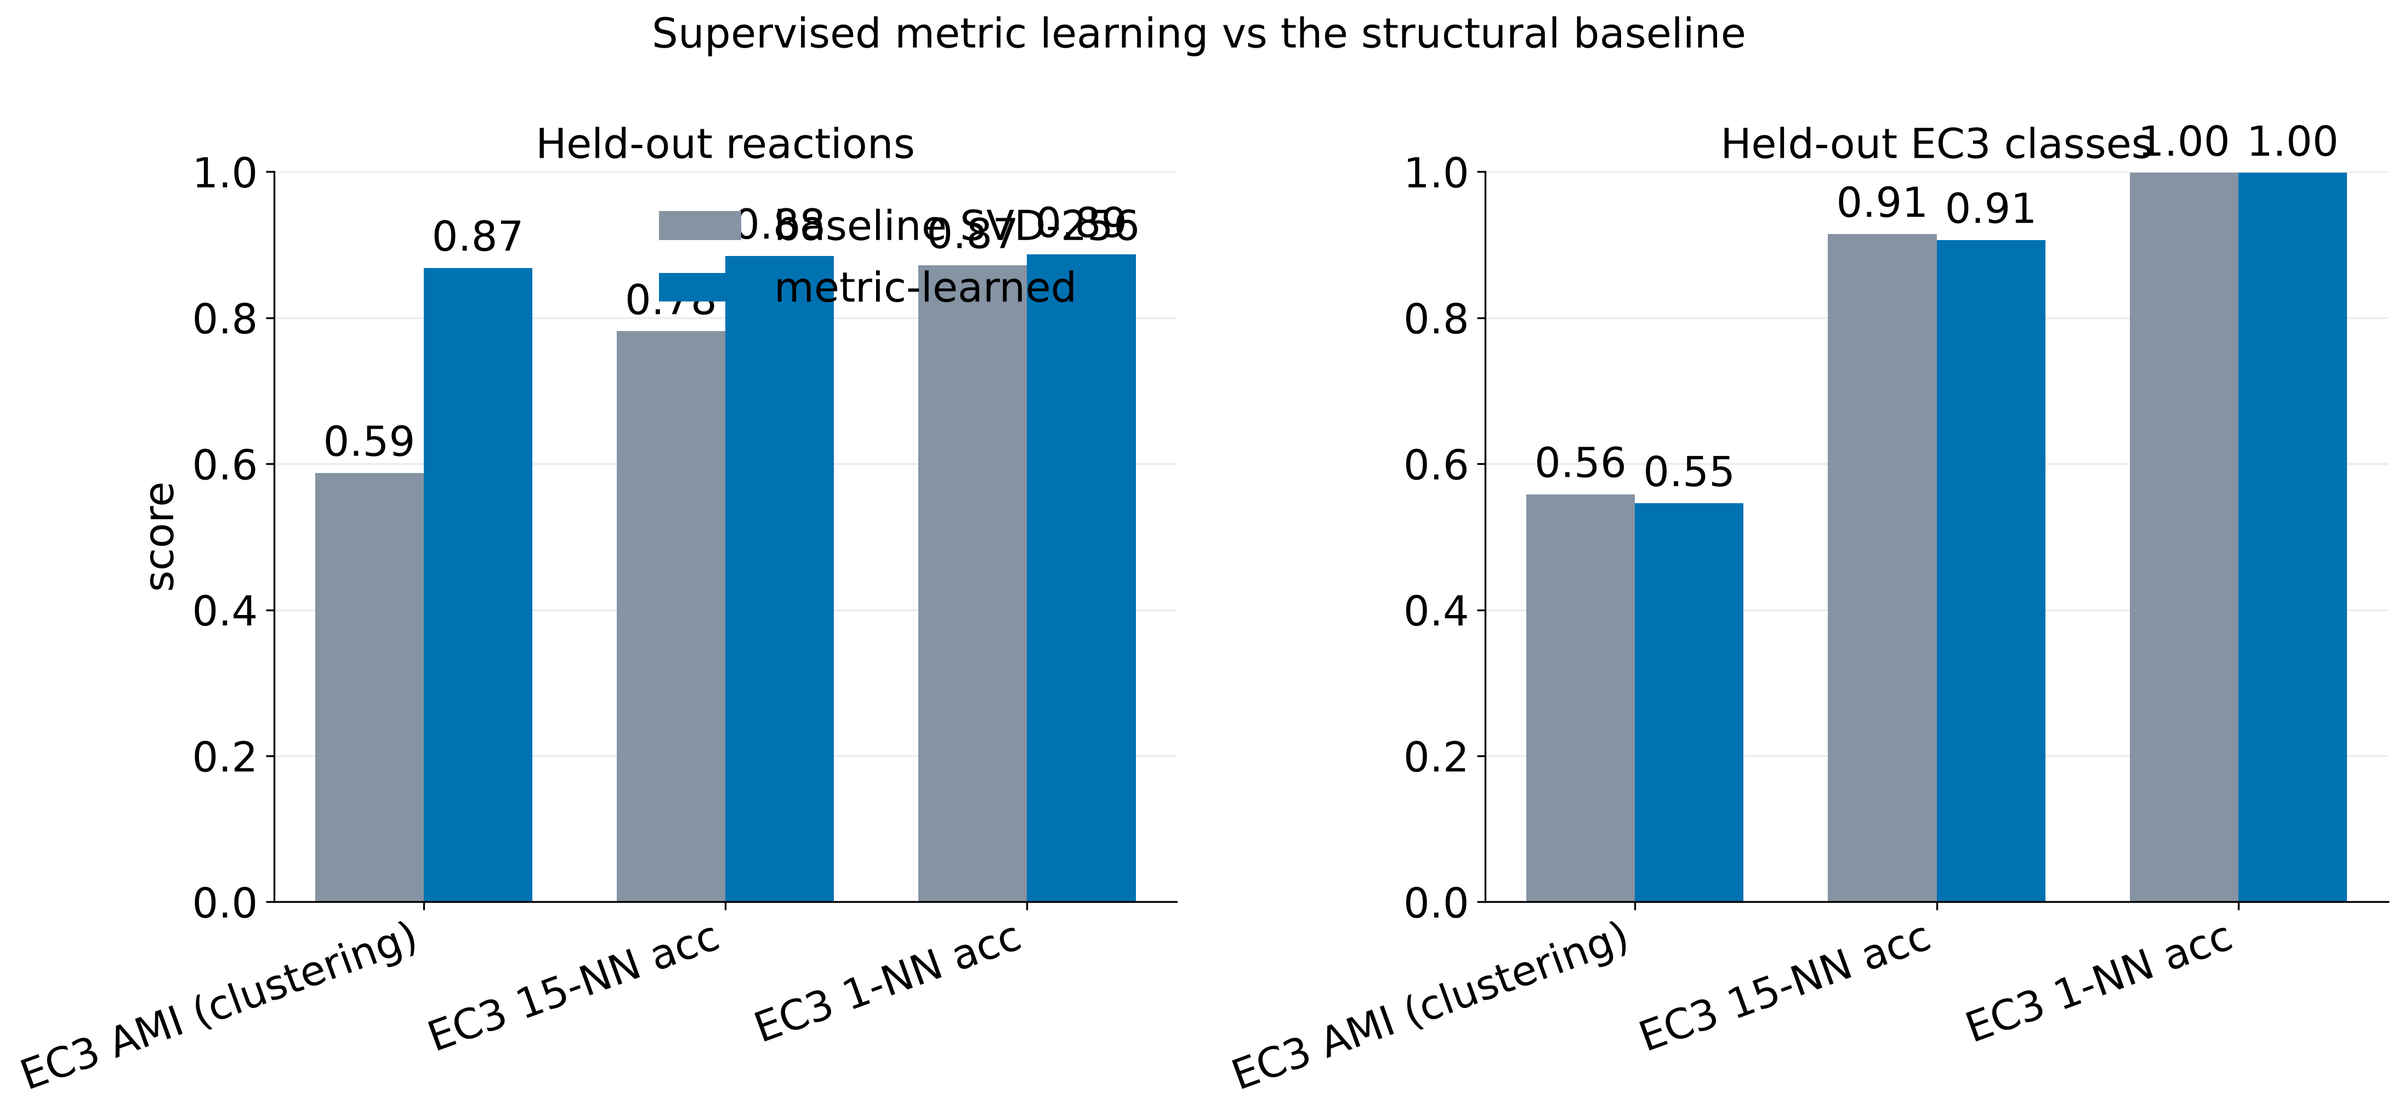
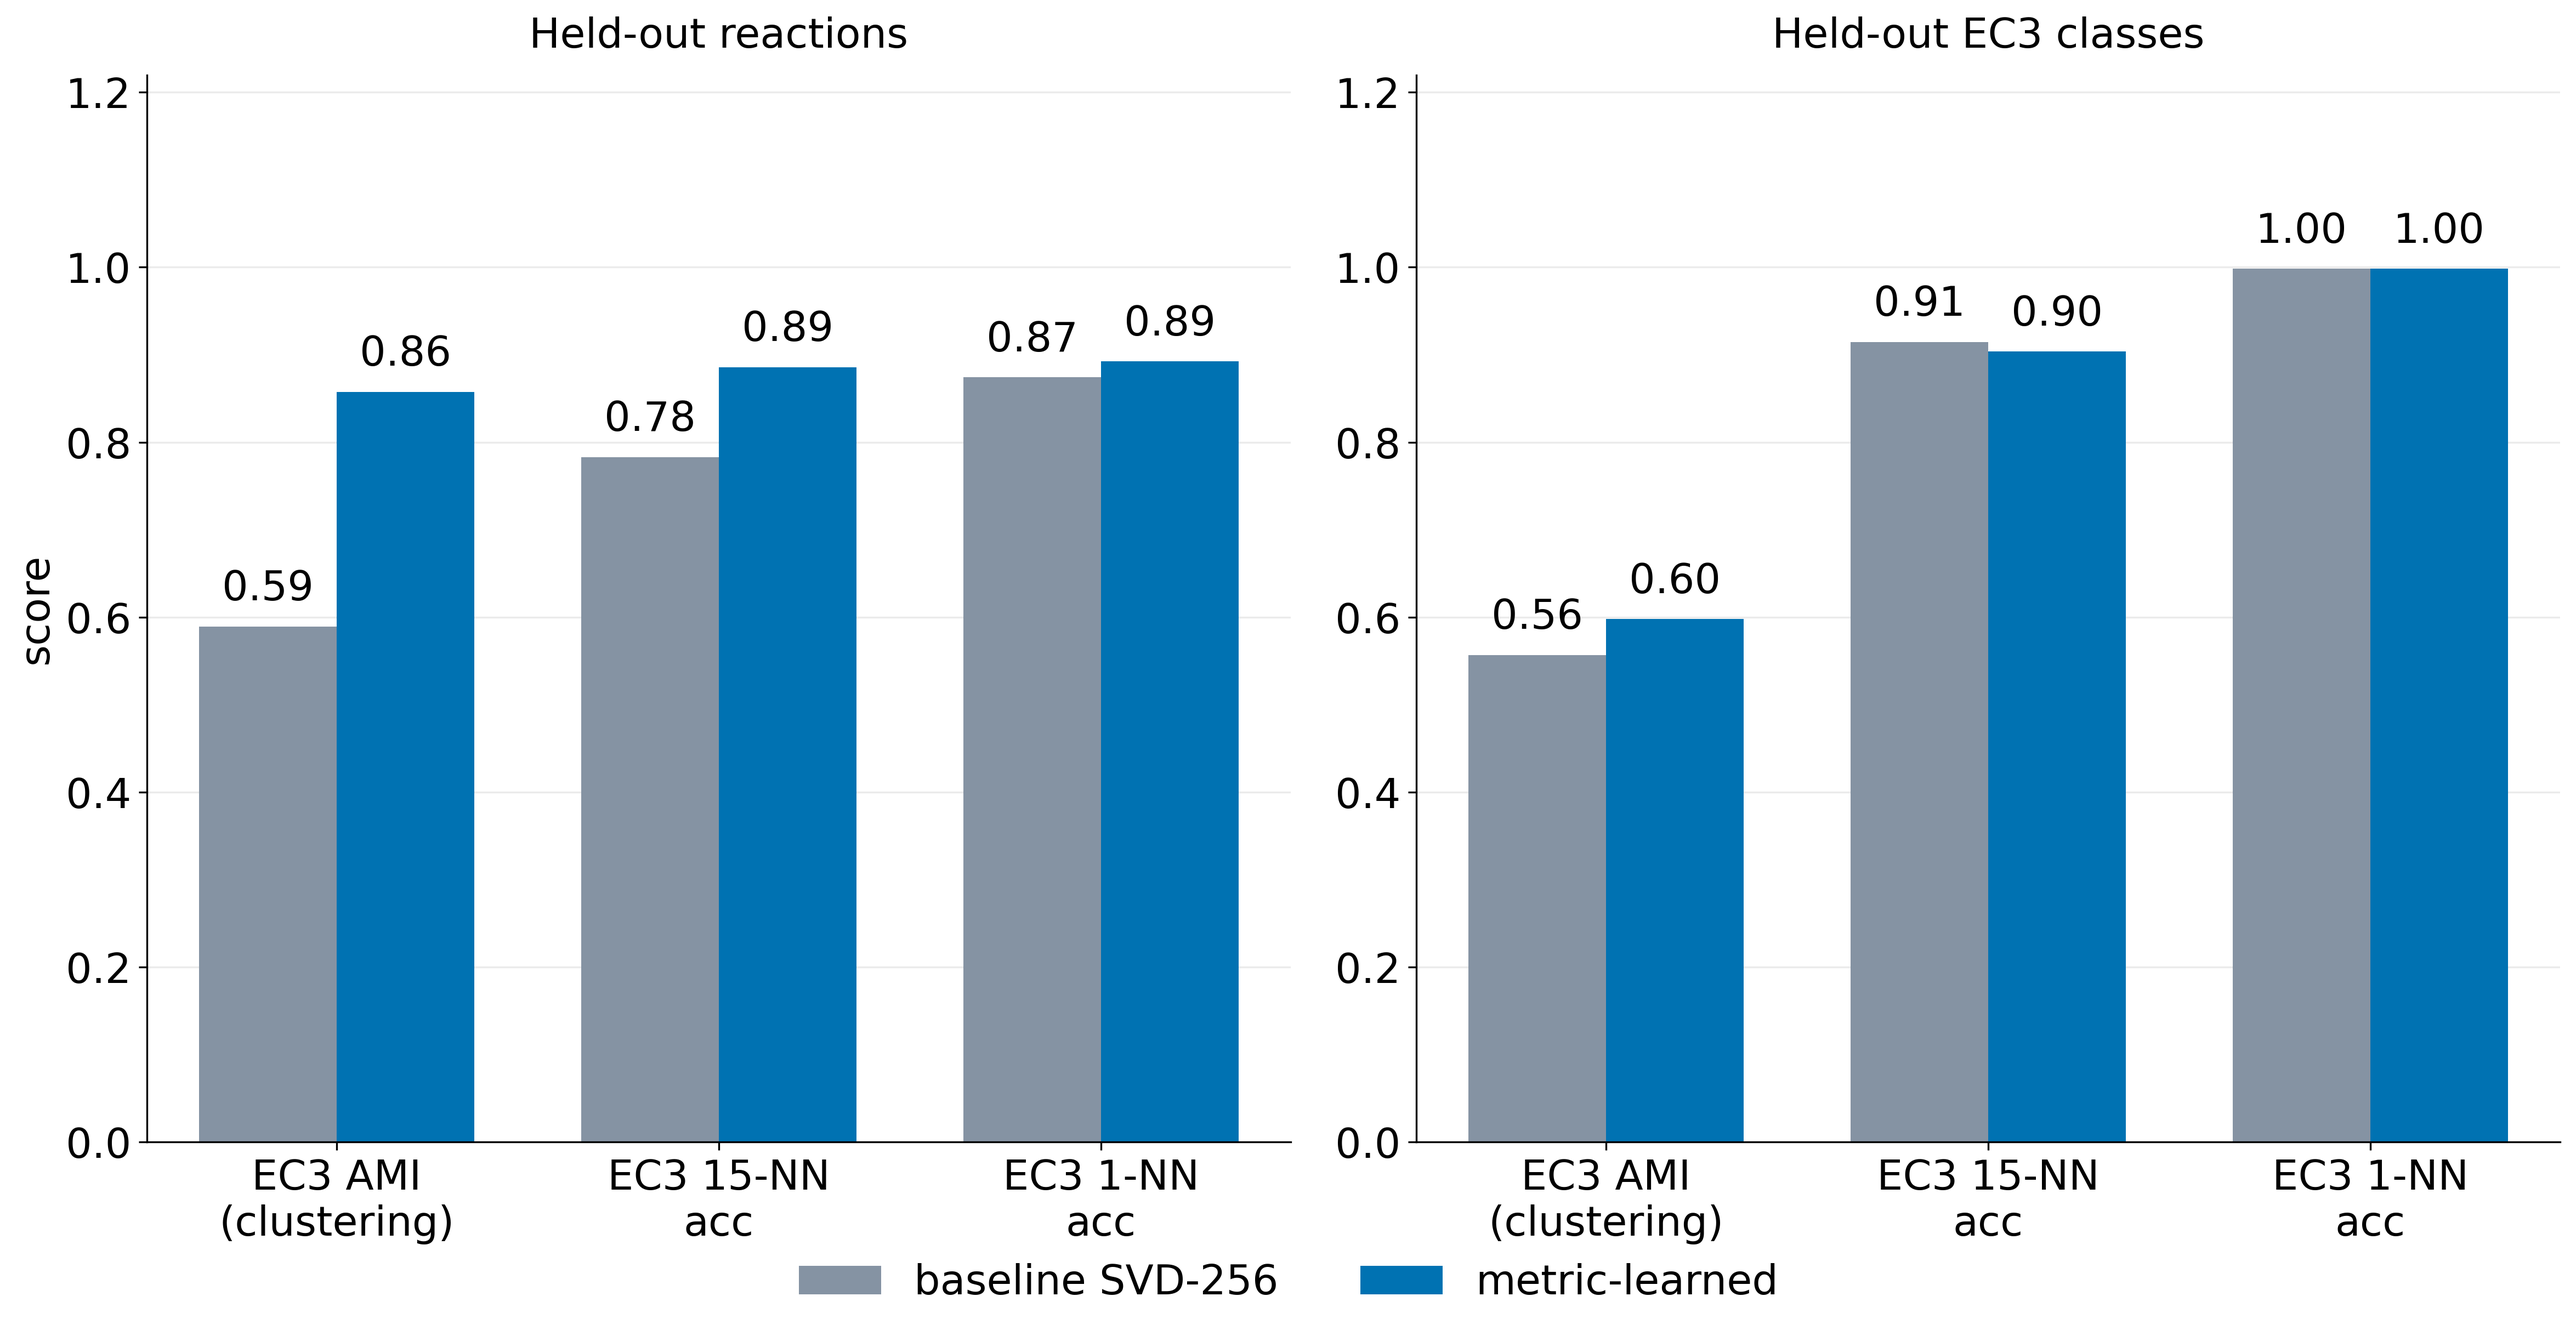
Fix text overlap in prediction figures; move landscape plot to viz script
- fig_metric_learning: value labels collided with the legend and panel titles.
  Add y-headroom, 2-line horizontal tick labels, shared legend below the panels,
  drop the redundant suptitle.
- fig_missing_landscape: the EC1 enzyme-class names overlapped in the bar panel.
  Switch to a horizontal bar chart (full names on the y-axis, no overlap).
- Move fig_missing_landscape generation out of annotate_missing.py (which needed a
  12-min DRFP rerun) into viz_predictions.py, so all three prediction figures are
  drawn from the saved TSV/landscape CSV in seconds. annotate_missing.py is now
  compute-only.

Regenerating metric_learning.py retrained the projection: the held-out-reactions
win is stable (~0.86 vs 0.59), while the held-out-classes delta is within run-to-run
noise (0.55<->0.60) -- reinforcing that the metric gives no reliable transfer to
unseen EC classes.

All 17 figures were visually audited for overlap; the rest were already clean.

diff --git a/rxnfp_clustering/pipeline/06_deploy/annotate_missing.py b/rxnfp_clustering/pipeline/06_deploy/annotate_missing.py
@@ -17,10 +17,9 @@ opinion is added best-effort if torch is available.
 Query featurisation is byte-identical to scripts/embed_fingerprints.py so query and reference
 live in the same geometry.
 
-Outputs:
+Outputs (figures are drawn by viz_predictions.py from these):
   results/predicted_missing_ec.tsv     one row per scoreable missing-EC reaction
   results/missing_ec_landscape.csv     coverage/agreement summary
-  figures/fig_missing_landscape.png    the landscape at a glance
 """
 import os, sys, csv, glob, time
 import numpy as np, pandas as pd
@@ -30,10 +29,6 @@ from rdkit import RDLogger
 RDLogger.DisableLog('rdApp.*')
 from sklearn.preprocessing import normalize
 from sklearn.neighbors import NearestNeighbors
-import matplotlib; matplotlib.use("Agg")
-import matplotlib.pyplot as plt
-sys.path.insert(0, os.path.join(os.path.dirname(os.path.dirname(os.path.dirname(os.path.abspath(__file__)))), "_lib"))
-import _style; FS = _style.FS
 csv.field_size_limit(10**7)
 
 HERE = os.path.dirname(os.path.dirname(os.path.dirname(os.path.abspath(__file__))))
@@ -247,34 +242,7 @@ def main():
             "5":"isomerase","6":"ligase","7":"translocase"}
     for k, v in conf.pred_ec1.value_counts().items():
         log(f"    EC{k} {ec1n.get(str(k),''):16s} {v:5d} ({v/len(conf)*100:.1f}%)")
-
-    # ---------------------------------------------------------------- figure
-    fig, ax = plt.subplots(1, 2, figsize=(16, 7))
-    # (a) coverage vs threshold
-    s = pd.DataFrame(summ)
-    ax[0].plot(s.ec3_conf_threshold, s.coverage, "o-", color="#0072B2", lw=2, ms=9)
-    for _, r in s.iterrows():
-        ax[0].annotate(f"{int(r.n_covered)}", (r.ec3_conf_threshold, r.coverage),
-                       textcoords="offset points", xytext=(0, 10), ha="center", fontsize=FS)
-    ax[0].axvline(GATE, color="#D55E00", ls="--", lw=2)
-    ax[0].set_xlabel("EC3 neighbour-agreement threshold", fontsize=FS)
-    ax[0].set_ylabel("fraction of missing-EC reactions covered", fontsize=FS)
-    ax[0].set_ylim(0, 1); ax[0].grid(alpha=0.25); ax[0].set_axisbelow(True)
-    for sp in ("top", "right"): ax[0].spines[sp].set_visible(False)
-    # (b) predicted EC1 breakdown among confident
-    vc = conf.pred_ec1.value_counts().sort_index()
-    colors = ["#0072B2","#E69F00","#009E73","#CC79A7","#56B4E9","#D55E00","#F0E442"]
-    labels = [f"EC{k}\n{ec1n.get(str(k),'')}" for k in vc.index]
-    ax[1].bar(range(len(vc)), vc.values, color=[colors[int(k)-1] for k in vc.index])
-    for i, v in enumerate(vc.values):
-        ax[1].text(i, v + max(vc.values)*0.01, str(v), ha="center", va="bottom", fontsize=FS)
-    ax[1].set_xticks(range(len(vc))); ax[1].set_xticklabels(labels, fontsize=FS)
-    ax[1].set_ylabel("confident predictions", fontsize=FS)
-    for sp in ("top", "right"): ax[1].spines[sp].set_visible(False)
-    ax[1].grid(axis="y", alpha=0.25); ax[1].set_axisbelow(True)
-    fig.tight_layout()
-    fig.savefig(os.path.join(FIG, "fig_missing_landscape.png"), dpi=300, bbox_inches="tight")
-    log("wrote figures/fig_missing_landscape.png")
+    log("Figures are rendered by viz_predictions.py (reads the saved TSV/landscape CSV).")
 
 if __name__ == "__main__":
     main()

diff --git a/rxnfp_clustering/pipeline/06_deploy/viz_predictions.py b/rxnfp_clustering/pipeline/06_deploy/viz_predictions.py
@@ -1,7 +1,7 @@
 #!/usr/bin/env python
 """Visualise the missing-EC predictions from annotate_missing.py.
 
-Two figures:
+Three figures:
   fig_pred_map.png          joint UMAP of the 13,721 labelled reactions (grey
                             background manifold) + the 22,871 missing-EC reactions,
                             confident predictions coloured by predicted EC1, OOD
@@ -11,6 +11,8 @@ Two figures:
   fig_pred_distributions.png  (a) EC3 neighbour-agreement histogram + gate,
                               (b) top predicted EC3 subclasses (confident),
                               (c) nearest-labelled-analogue similarity by bucket.
+  fig_missing_landscape.png (a) coverage vs confidence threshold,
+                              (b) predicted EC1 breakdown of confident calls.
 
 Layout uses ecfp4_diff (fast to recompute; DRFP adds nothing to a 2-D layout);
 the predictions/flags themselves come from the full ecfp4_drfp retriever (28).
@@ -171,6 +173,36 @@ def main():
     fig.tight_layout()
     fig.savefig(os.path.join(FIG, "fig_pred_distributions.png"), dpi=300, bbox_inches="tight")
     plt.close(fig); log("wrote figures/fig_pred_distributions.png")
+
+    # ================================================= FIG 3: LANDSCAPE
+    land = pd.read_csv(os.path.join(RESULTS, "missing_ec_landscape.csv"))
+    fig, ax = plt.subplots(1, 2, figsize=(17, 8))
+    # (a) coverage vs confidence threshold
+    ax[0].plot(land.ec3_conf_threshold, land.coverage, "o-", color="#0072B2", lw=2.5, ms=10)
+    for _, r in land.iterrows():
+        ax[0].annotate(f"{int(r.n_covered):,}", (r.ec3_conf_threshold, r.coverage),
+                       textcoords="offset points", xytext=(0, 12), ha="center", fontsize=FS)
+    ax[0].axvline(0.6, color="#D55E00", ls="--", lw=2.5)
+    ax[0].text(0.61, 0.06, "gate = 0.6", color="#D55E00", fontsize=FS)
+    ax[0].set_xlabel("EC3 neighbour-agreement threshold", fontsize=FS)
+    ax[0].set_ylabel("fraction of missing-EC reactions covered", fontsize=FS)
+    ax[0].set_ylim(0, 0.85); ax[0].set_title("(a) coverage vs confidence", fontsize=FS)
+    # (b) predicted EC1 among confident calls -- horizontal so names never overlap
+    vc = pd.Series(p1[conf]).value_counts().sort_values()
+    ylabs = [f"EC{k} {EC1NAME.get(str(k), '')}" for k in vc.index]
+    ax[1].barh(range(len(vc)), vc.values, color=[OKABE.get(str(k), "#999") for k in vc.index])
+    ax[1].set_yticks(range(len(vc))); ax[1].set_yticklabels(ylabs, fontsize=FS)
+    for i, v in enumerate(vc.values):
+        ax[1].text(v + max(vc.values) * 0.01, i, f"{v:,}", va="center", fontsize=FS)
+    ax[1].set_xlim(0, max(vc.values) * 1.15)
+    ax[1].set_xlabel("confident predictions", fontsize=FS)
+    ax[1].set_title("(b) predicted EC1 (confident calls)", fontsize=FS)
+    for a in ax:
+        for sp in ("top", "right"): a.spines[sp].set_visible(False)
+        a.grid(axis="x" if a is ax[1] else "y", alpha=0.25); a.set_axisbelow(True)
+    fig.tight_layout()
+    fig.savefig(os.path.join(FIG, "fig_missing_landscape.png"), dpi=300, bbox_inches="tight")
+    plt.close(fig); log("wrote figures/fig_missing_landscape.png")
 
 if __name__ == "__main__":
     main()

diff --git a/rxnfp_clustering/pipeline/05_analysis/metric_learning.py b/rxnfp_clustering/pipeline/05_analysis/metric_learning.py
@@ -198,25 +198,28 @@ pd.DataFrame(allrows).to_csv(os.path.join(RESULTS, "metric_learning.csv"), index
 log("wrote results/metric_learning.csv")
 
 # ---------------------------------------------------------------- FIGURE
-fig, axes = plt.subplots(1, 2, figsize=(15, 7))
-metrics = [("ec3_ami_test", "EC3 AMI (clustering)"), ("ec3_15nn", "EC3 15-NN acc"),
-           ("ec3_1nn", "EC3 1-NN acc")]
+fig, axes = plt.subplots(1, 2, figsize=(16, 8))
+metrics = [("ec3_ami_test", "EC3 AMI\n(clustering)"), ("ec3_15nn", "EC3 15-NN\nacc"),
+           ("ec3_1nn", "EC3 1-NN\nacc")]
+handles = None
 for ax, rows, title in [(axes[0], rowsR, "Held-out reactions"),
                         (axes[1], rowsC, "Held-out EC3 classes")]:
     base = rows[0]; learn = rows[1]
     x = np.arange(len(metrics)); w = 0.36
-    ax.bar(x - w/2, [base[k] for k, _ in metrics], w, color="#8593A3", label="baseline SVD-256")
-    ax.bar(x + w/2, [learn[k] for k, _ in metrics], w, color="#0072B2", label="metric-learned")
+    b1 = ax.bar(x - w/2, [base[k] for k, _ in metrics], w, color="#8593A3", label="baseline SVD-256")
+    b2 = ax.bar(x + w/2, [learn[k] for k, _ in metrics], w, color="#0072B2", label="metric-learned")
+    handles = [b1, b2]
     for xi, (k, _) in enumerate(metrics):
         for off, r in [(-w/2, base), (w/2, learn)]:
-            ax.text(xi + off, r[k] + 0.01, f"{r[k]:.2f}", ha="center", va="bottom", fontsize=FS)
-    ax.set_xticks(x); ax.set_xticklabels([lab for _, lab in metrics], rotation=20, ha="right", fontsize=FS)
-    ax.set_ylim(0, 1.0); ax.set_title(title, fontsize=FS)
+            ax.text(xi + off, r[k] + 0.02, f"{r[k]:.2f}", ha="center", va="bottom", fontsize=FS)
+    ax.set_xticks(x); ax.set_xticklabels([lab for _, lab in metrics], fontsize=FS)
+    ax.set_ylim(0, 1.22); ax.set_title(title, fontsize=FS, pad=12)
     for sp in ("top", "right"): ax.spines[sp].set_visible(False)
     ax.grid(axis="y", alpha=0.25); ax.set_axisbelow(True)
 axes[0].set_ylabel("score", fontsize=FS)
-axes[0].legend(fontsize=FS, frameon=False, loc="upper right")
-fig.suptitle("Supervised metric learning vs the structural baseline", fontsize=FS)
+# shared legend below the panels — never overlaps bars/labels/titles
+fig.legend(handles, ["baseline SVD-256", "metric-learned"], fontsize=FS, frameon=False,
+           loc="lower center", ncol=2, bbox_to_anchor=(0.5, -0.04))
 fig.tight_layout()
 fig.savefig(os.path.join(FIG, "fig_metric_learning.png"), dpi=300, bbox_inches="tight")
 plt.close(fig)
